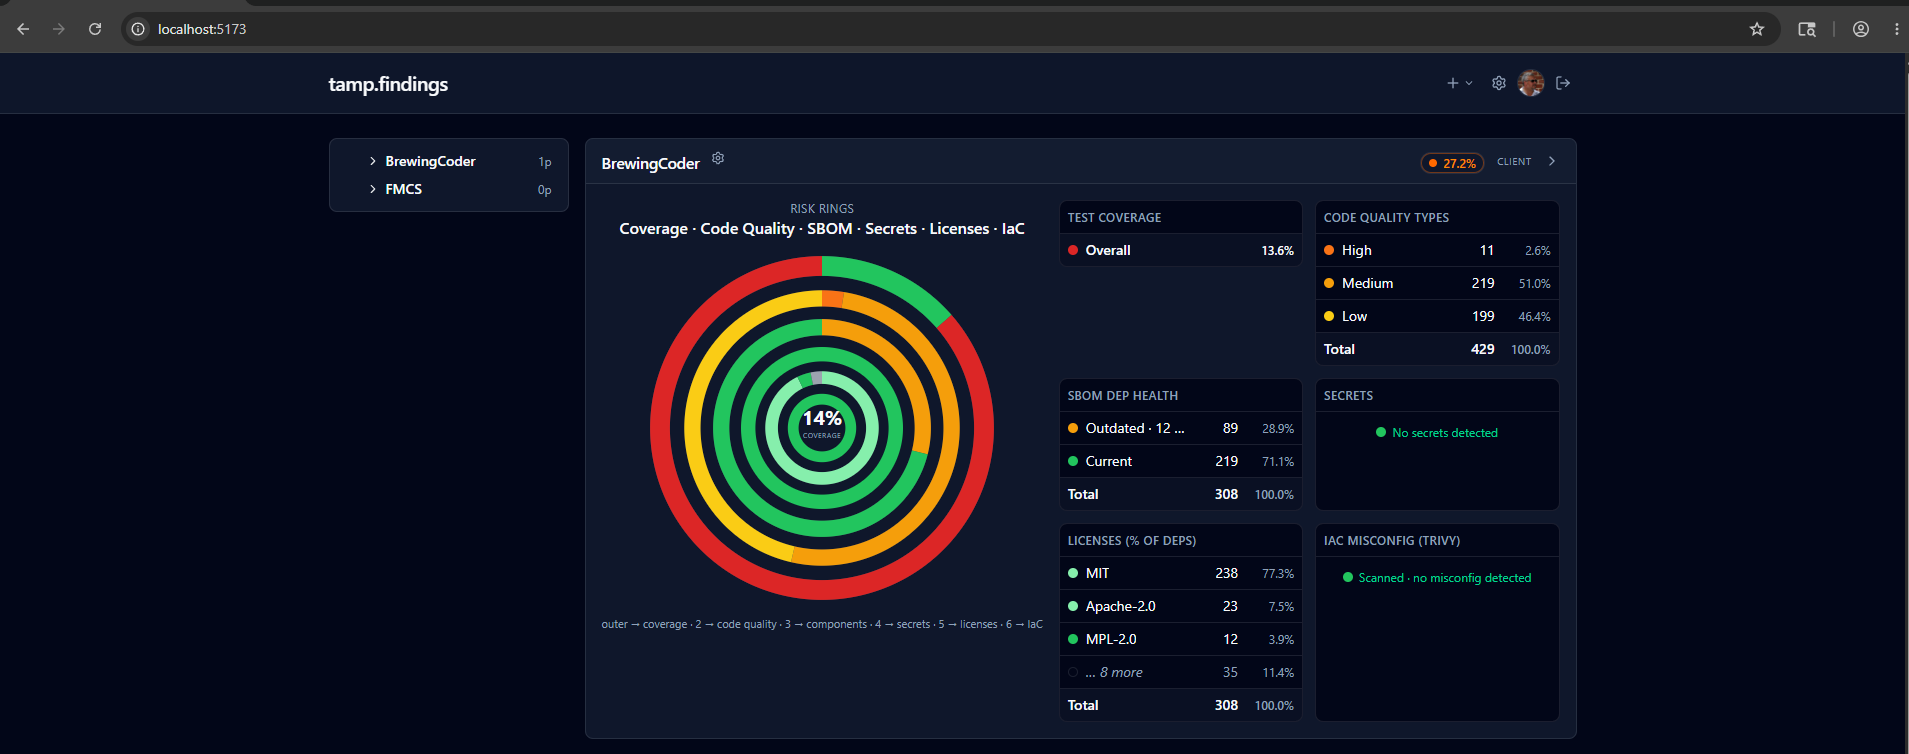
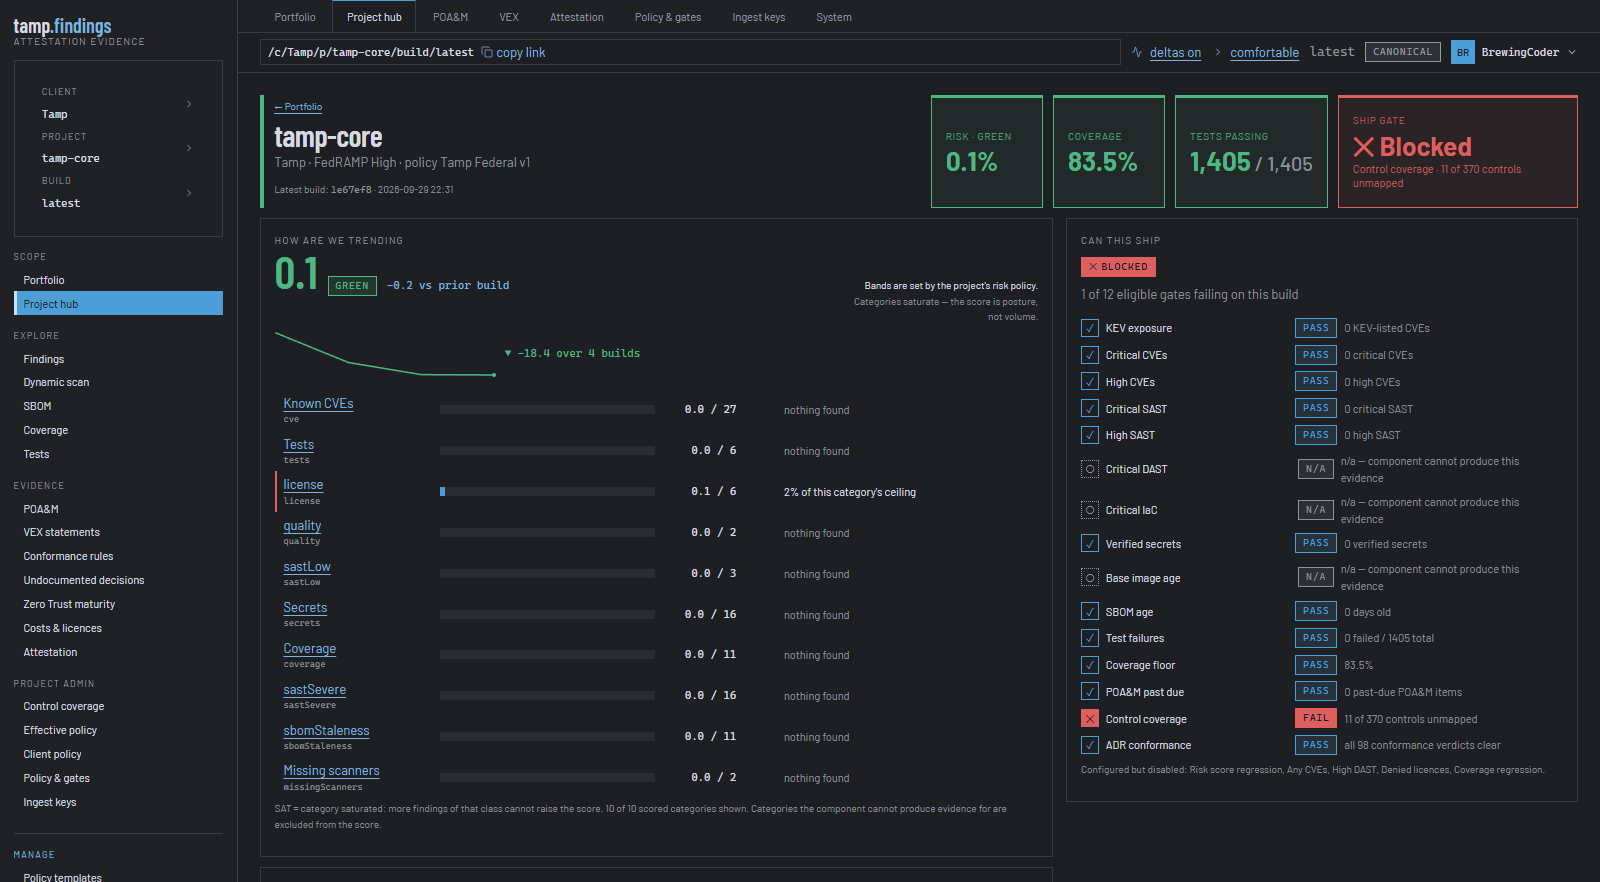
docs(readme): replace the hero screenshot with the current project hub
The old hero showed the retired "Risk Rings" design. New shot is the live project
hub — status strip (risk/coverage/tests/ship gate), score trend + per-category
breakdown, and the ship-gate rail with a per-gate verdict + observed value.
Alt text updated to match.

Claude-Session: https://claude.ai/code/session_01MhjWZUseCDb7j8f682dBSw

diff --git a/README.md b/README.md
@@ -14,7 +14,7 @@ It ingests SARIF, SBOMs, coverage, and test results from any CI pipeline, scores
 > Don't build anything load-bearing on the current shapes yet. We'll move to
 > **Beta** once the entity model and project structure are solidified.
 
-![tamp.findings dashboard — Risk Rings, Code Quality, SBOM health, Licenses, Secrets, IaC, Test Coverage](docs/dashboard-overview.png)
+![tamp.findings project hub — the status strip (risk score, coverage, tests, ship gate), the score trend and per-category breakdown, and the ship-gate rail with a Pass/Fail/N-A verdict and observed value for every gate](docs/dashboard-overview.png)
 
 > Tracked internally in YouTrack project **TFND** — epic **TFND-1**, federal-readiness epic **TFND-24**. GitHub Issues is disabled on this repo (the internal tracker is canonical).
 >
